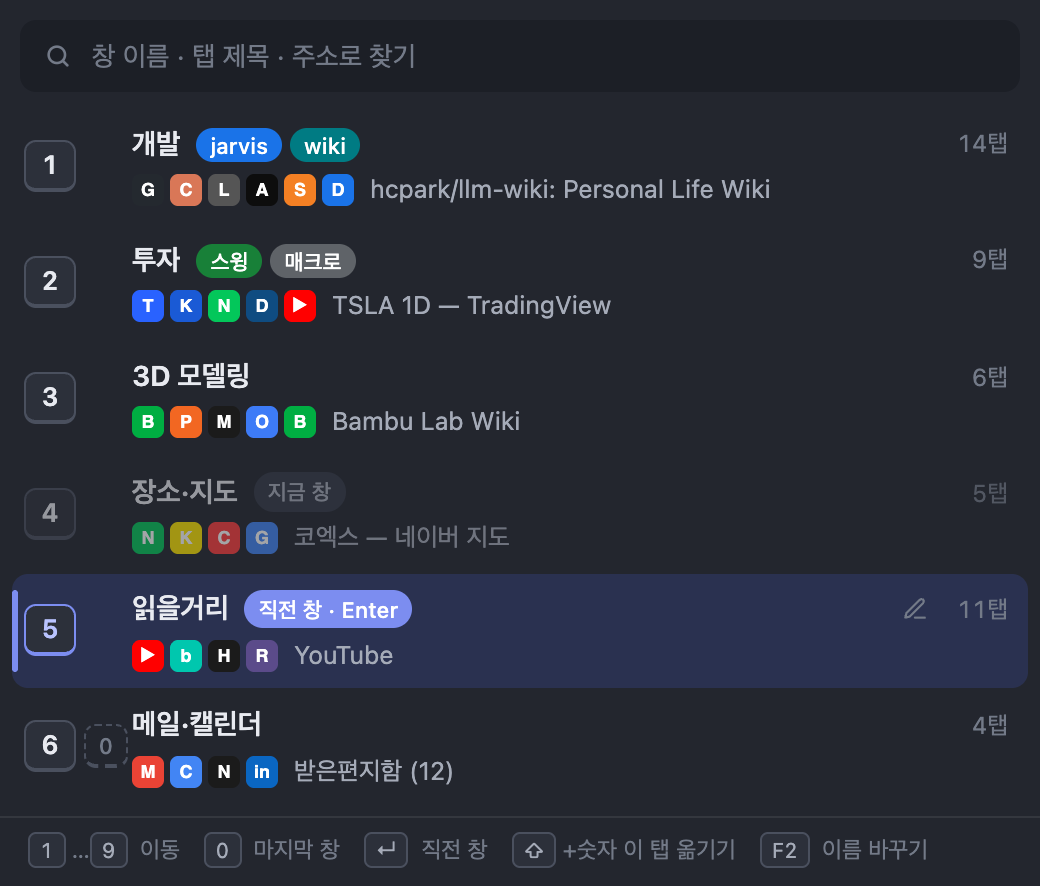
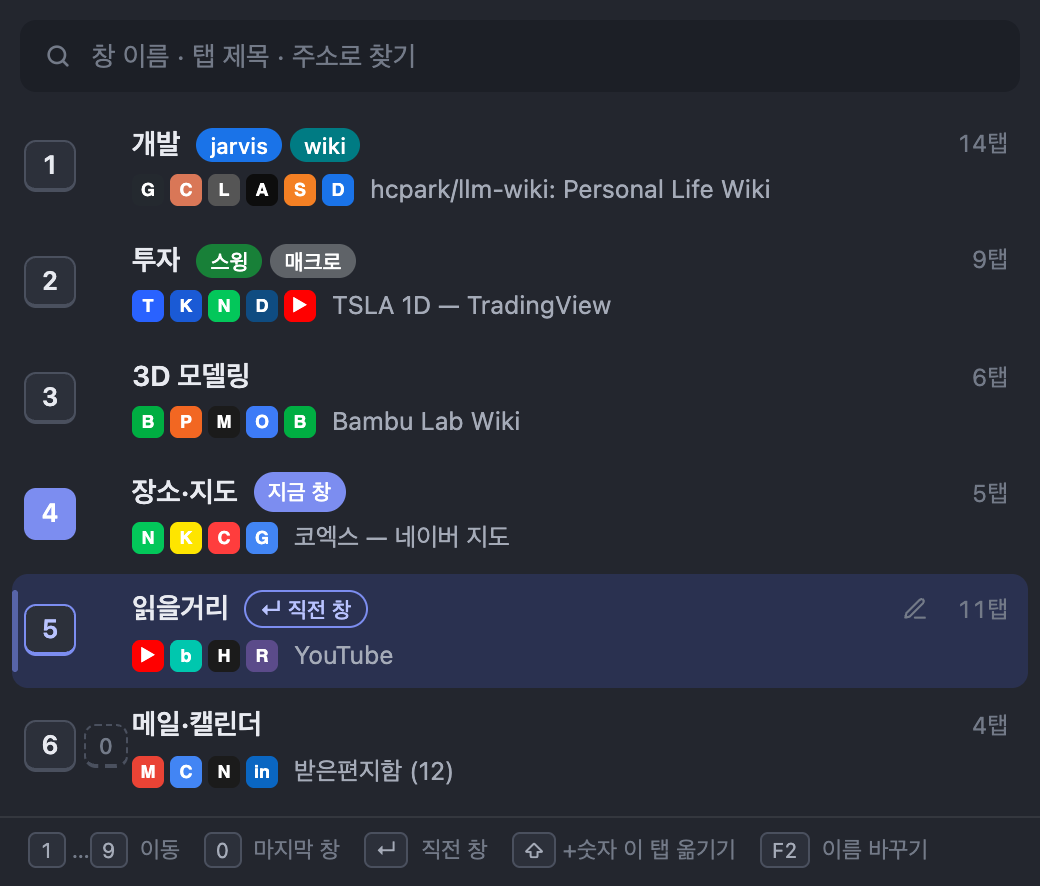
Current window outweighs the preselected previous window
The keyboard selection (previous window) used the strongest treatment, which read as
"you are here". Now the current window gets a filled keycap and a filled "this window"
pill; the selection keeps a lighter tint, a softer bar and an outlined "↵ previous" pill.
The current row is only dimmed in move mode, where it is not a target.

diff --git a/src/popup.css b/src/popup.css
@@ -109,10 +109,10 @@ body {
 .row.sel, .row.sel:hover { background: var(--sel-bg); }
 .row.sel::before {
   content: ""; position: absolute; left: 0; top: 8px; bottom: 8px; width: 3px;
-  border-radius: 2px; background: var(--sel-bar);
+  border-radius: 2px; background: var(--sel-bar); opacity: .55;
 }
-.row.cur { opacity: .58; }
-.row.cur.sel { opacity: .8; }
+.row.cur .name { color: var(--ink); }
+body.moving .row.cur { opacity: .45; }
 
 .keys { grid-row: 1 / span 2; display: flex; align-items: center; gap: 4px; }
 .key {
@@ -127,6 +127,7 @@ body {
 .key.shift { font-size: 12px; }
 .key.none { visibility: hidden; }
 .row.sel .key { border-color: var(--sel-bar); color: var(--sel-ink); }
+.row.cur .key:first-child { background: var(--sel-bar); border-color: var(--sel-bar); color: #fff; }
 
 .name-line { display: flex; align-items: center; gap: 8px; min-width: 0; }
 .name { font-weight: 600; font-size: 14px; white-space: nowrap; overflow: hidden; text-overflow: ellipsis; min-width: 0; flex: 0 1 auto; }
@@ -141,7 +142,8 @@ body {
   font-size: 11px; font-weight: 500; padding: 2px 7px; border-radius: 999px;
   background: var(--pill-bg); color: var(--pill-ink); white-space: nowrap; flex: none;
 }
-.pill.ret { background: var(--sel-bar); color: #fff; }
+.pill.here { background: var(--sel-bar); color: #fff; }
+.pill.ret { background: transparent; color: var(--sel-ink); border: 1px solid var(--sel-bar); padding-top: 1px; padding-bottom: 1px; }
 .rename-btn {
   flex: none; margin-left: auto; border: 0; background: transparent; color: var(--ink-3);
   width: 22px; height: 22px; border-radius: 5px; cursor: pointer; padding: 0;

diff --git a/src/popup.js b/src/popup.js
@@ -319,8 +319,8 @@ function buildRow(row, q) {
     nameLine.append(name);
     const chips = chipsOf(win);
     if (chips) nameLine.append(chips);
-    if (isCur) nameLine.append(pill(state.shift ? `${t('currentWindow')} · ${t('alreadyHere')}` : t('currentWindow')));
-    else if (isPrev && !q && !state.shift) nameLine.append(pill(`${t('previousWindow')} · Enter`, 'ret'));
+    if (isCur) nameLine.append(pill(state.shift ? `${t('currentWindow')} · ${t('alreadyHere')}` : t('currentWindow'), 'here'));
+    else if (isPrev && !q && !state.shift) nameLine.append(pill(`↵ ${t('previousWindow')}`, 'ret'));
     if (win.state === 'minimized') nameLine.append(pill(t('minimized')));
     const btn = document.createElement('button');
     btn.className = 'rename-btn';
@@ -398,6 +398,7 @@ function renderSelection() {
 function renderMode() {
   const moving = state.shift && !state.renaming;
   els.searchbox.classList.toggle('moving', moving);
+  document.body.classList.toggle('moving', moving);
   els.mode.hidden = !moving;
   if (moving) {
     const title = state.activeTab ? (state.activeTab.title || state.activeTab.url || '') : '';
